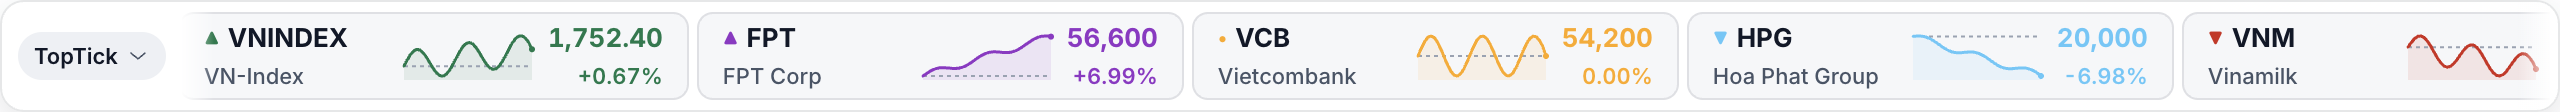
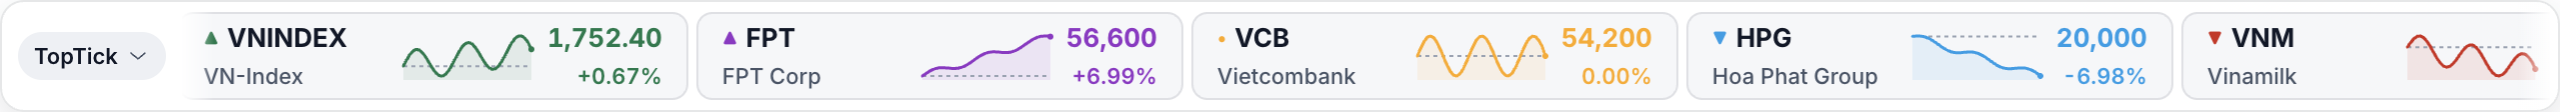
feat: light-theme floor #009EE8 (user color)
Synced from main b905433 via npm run sync:deploy. Light --floor #5AC8FA -> #009EE8 (2.98:1 on white,
user-decided exception in contrast.test.ts); README light bar screenshot retaken.
Verified in main repo: npm run check passed (vitest 368, playwright 29 + 1 skipped).

diff --git a/tests/unit/contrast.test.ts b/tests/unit/contrast.test.ts
@@ -50,7 +50,7 @@ describe('tokens.css', () => {
  * darker background or a lighter color still fails.
  */
 const USER_EXCEPTIONS: Record<string, { hex: string; min: Record<(typeof BACKGROUNDS)[number], number> }> = {
-  'light --floor': { hex: '#5AC8FA', min: { '--surface-0-base': 1.89, '--surface-1': 1.76 } },
+  'light --floor': { hex: '#009EE8', min: { '--surface-0-base': 2.97, '--surface-1': 2.77 } },
   'light --ref': { hex: '#FFA800', min: { '--surface-0-base': 1.93, '--surface-1': 1.8 } }
 }
 
@@ -117,8 +117,8 @@ describe('measured ratios match the design table', () => {
     ['light', '--down', '--surface-0-base', 5.21],
     ['light', '--down', '--surface-1', 4.86],
     ['light', '--flat', '--surface-1', 5.04],
-    ['light', '--floor', '--surface-0-base', 1.9],
-    ['light', '--floor', '--surface-1', 1.77],
+    ['light', '--floor', '--surface-0-base', 2.98],
+    ['light', '--floor', '--surface-1', 2.78],
     ['light', '--ref', '--surface-0-base', 1.93],
     ['light', '--ref', '--surface-1', 1.81]
   ] as const)('%s %s on %s = %s', (theme, fg, bg, expected) => {

diff --git a/src/renderer/styles/tokens.css b/src/renderer/styles/tokens.css
@@ -45,7 +45,7 @@
   --flat: #5D6B82;
   --ref: #FFA800; /* user decision 2026-11-09: below 4.5:1 on purpose (1.93:1 on white), see contrast.test.ts */
   --ceiling: #9333C7;
-  --floor: #5AC8FA; /* user decision 2026-11-09: below 4.5:1 on purpose (1.90:1 on white), see contrast.test.ts */
+  --floor: #009EE8; /* user decision 2026-11-09: below 4.5:1 on purpose (2.98:1 on white), see contrast.test.ts */
   --accent: #037A4B; /* = --up (the icon green #16C784 is only 2.3:1 on white) */
   --selection: #C4E6D6;
   --warn: #DC8A00;
